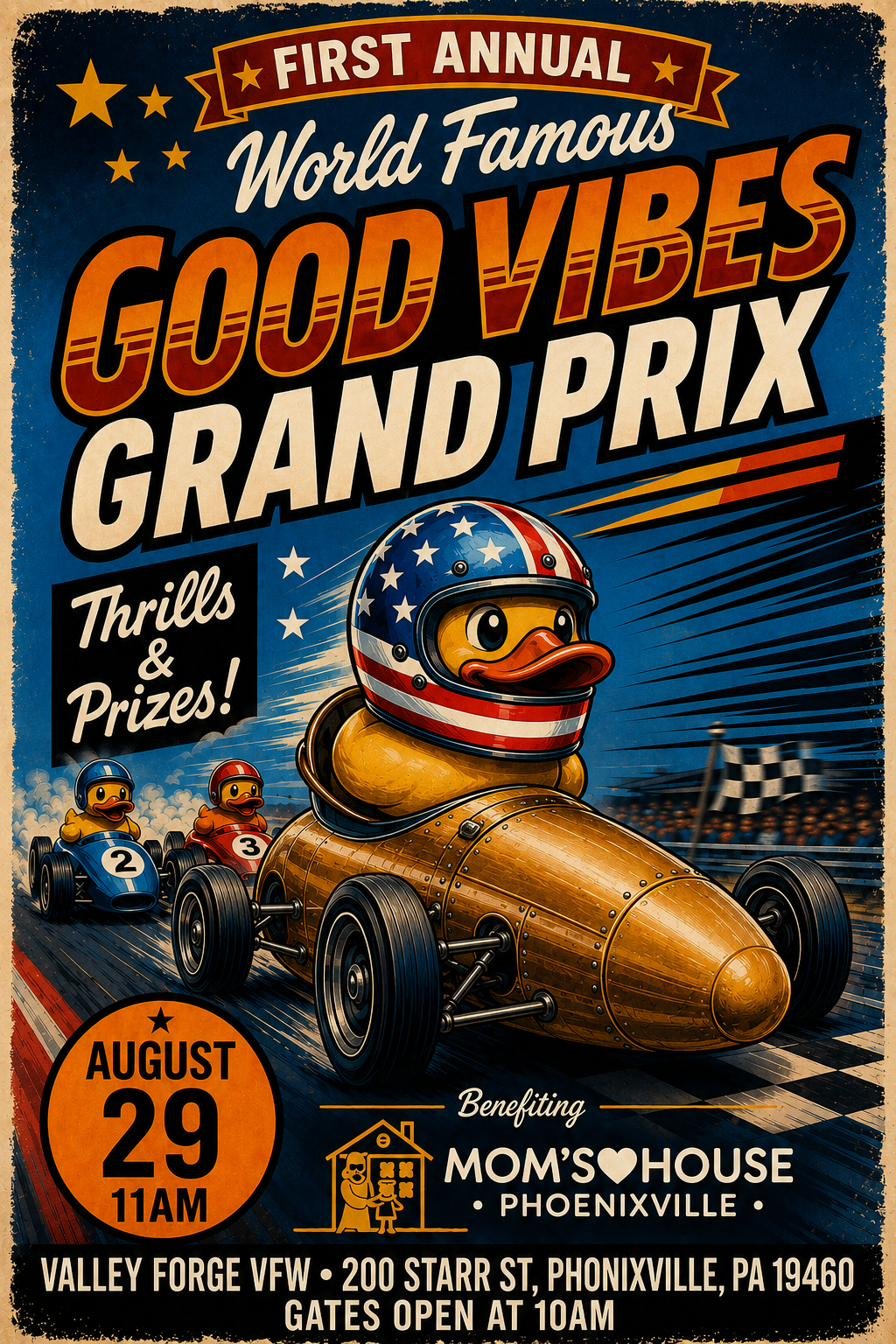
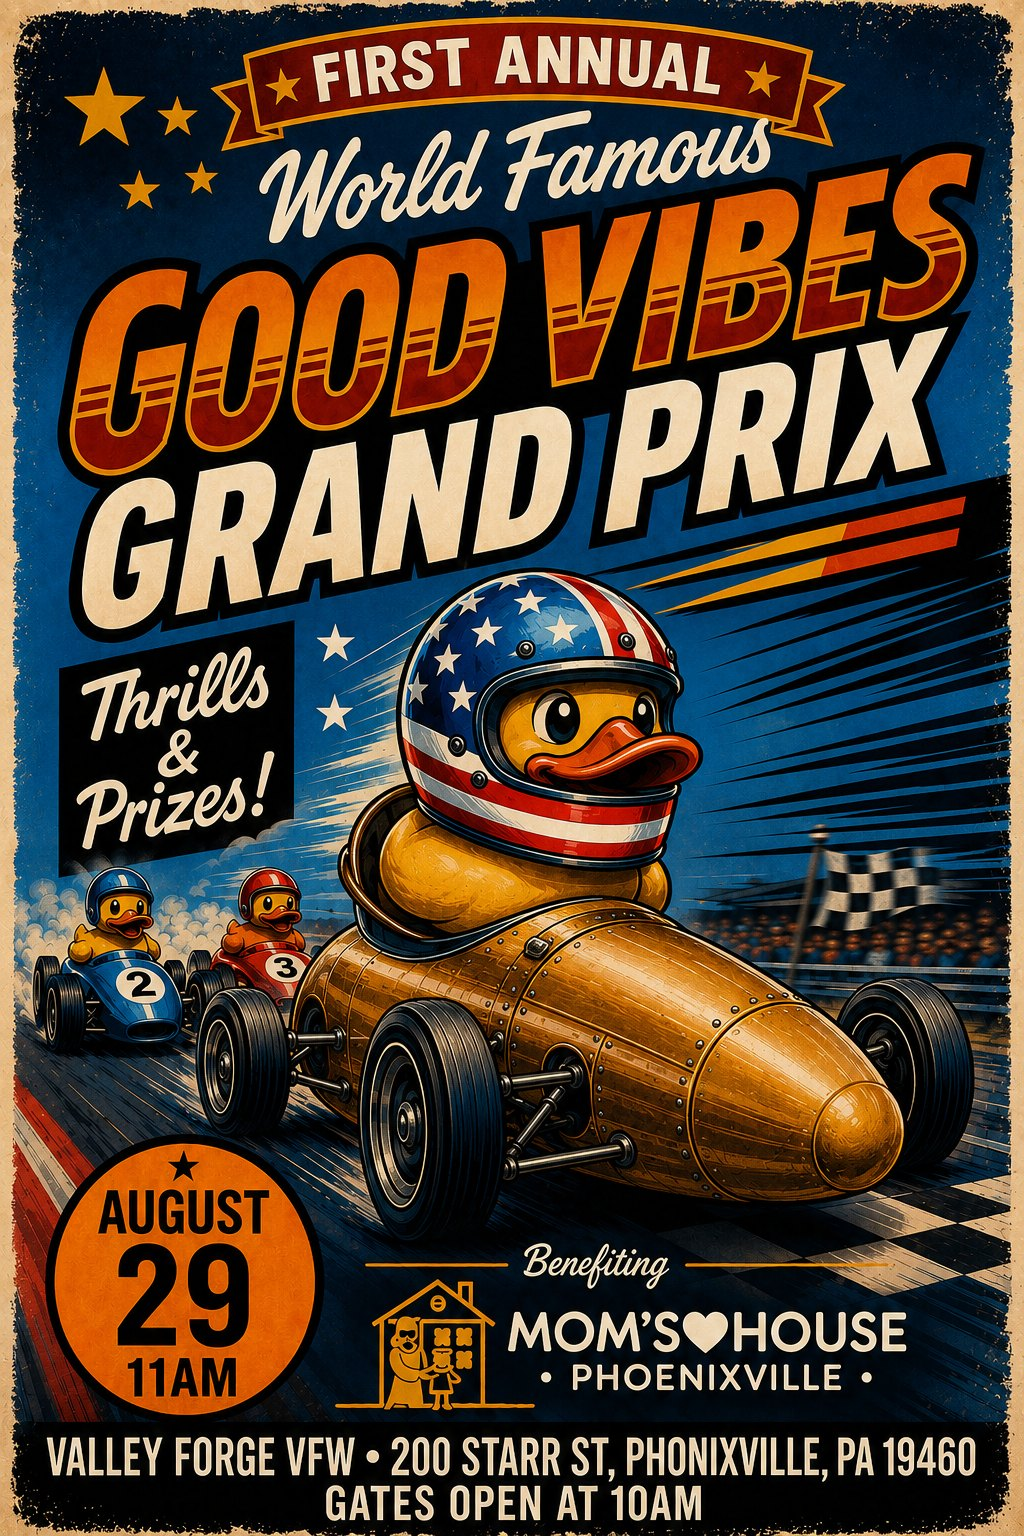
Add files via upload

diff --git a/index.html b/index.html
@@ -15,6 +15,38 @@
 <meta name="twitter:description" content="Aug 29, 2026 · Valley Forge VFW · 21+ · Benefiting Mom's House Phoenixville">
 <meta name="twitter:image" content="https://goodvibesgrandprix.com/assets/poster.jpg">
 <meta name="theme-color" content="#001830">
+<script type="application/ld+json">
+{
+  "@context": "https://schema.org",
+  "@type": "Event",
+  "name": "Good Vibes Grand Prix — First Annual",
+  "description": "VFW Post 1564 presents the World Famous Good Vibes Grand Prix — a cheeky 21+ charity race day at the Valley Forge VFW. Novelty racers, live auctions, thrills & prizes. 100% of net proceeds benefit Mom's House of Phoenixville.",
+  "startDate": "2026-08-29T11:00:00-04:00",
+  "endDate": "2026-08-29T16:00:00-04:00",
+  "doorTime": "2026-08-29T10:00:00-04:00",
+  "eventStatus": "https://schema.org/EventScheduled",
+  "eventAttendanceMode": "https://schema.org/OfflineEventAttendanceMode",
+  "typicalAgeRange": "21-",
+  "image": "https://goodvibesgrandprix.com/assets/poster.jpg",
+  "url": "https://goodvibesgrandprix.com",
+  "location": {
+    "@type": "Place",
+    "name": "Valley Forge VFW Post 1564",
+    "address": {
+      "@type": "PostalAddress",
+      "streetAddress": "200 Starr St",
+      "addressLocality": "Phoenixville",
+      "addressRegion": "PA",
+      "postalCode": "19460",
+      "addressCountry": "US"
+    }
+  },
+  "organizer": {
+    "@type": "Organization",
+    "name": "Valley Forge VFW Post 1564 (Ettinger–Powers–Campbell)"
+  }
+}
+</script>
 <link rel="icon" href="assets/favicon.ico" sizes="any">
 <link rel="icon" type="image/png" sizes="32x32" href="assets/favicon-32.png">
 <link rel="apple-touch-icon" href="assets/favicon-180.png">
@@ -186,6 +218,28 @@ footer{background:rgba(10,10,12,.9);padding:44px 0 30px;border-top:2px solid var
 .legal{max-width:60ch;font-size:.8rem;opacity:.65;line-height:1.7}
 .legal strong{color:var(--gold);opacity:1}
 .foot-bottom{margin-top:26px;padding-top:18px;border-top:1px solid rgba(255,255,255,.08);font-size:.75rem;opacity:.55;text-align:center}
+/* FAQ */
+.faq{max-width:760px;margin-top:8px}
+.faq details{background:rgba(0,0,0,.3);border:1px solid var(--line);border-left:3px solid var(--orange);border-radius:4px;margin-bottom:12px;overflow:hidden}
+.faq summary{cursor:pointer;padding:16px 20px;font-family:'Oswald',sans-serif;font-weight:600;letter-spacing:.5px;text-transform:uppercase;font-size:.95rem;color:var(--cream-2);list-style:none;position:relative;padding-right:44px}
+.faq summary::-webkit-details-marker{display:none}
+.faq summary::after{content:"+";position:absolute;right:18px;top:50%;transform:translateY(-50%);font-family:'Anton',sans-serif;font-size:1.4rem;color:var(--orange-hi);transition:transform .2s}
+.faq details[open] summary::after{transform:translateY(-50%) rotate(45deg)}
+.faq .a{padding:0 20px 18px;opacity:.92}
+.faq .a a{color:var(--orange-hi)}
+/* Meet the Racers teaser */
+.racer-grid{display:grid;grid-template-columns:repeat(4,1fr);gap:16px;margin-top:20px}
+@media(max-width:820px){.racer-grid{grid-template-columns:repeat(2,1fr)}}
+.racer-card{background:rgba(0,0,0,.3);border:1px solid var(--line);border-top:3px solid var(--red);border-radius:6px;padding:22px 14px;text-align:center}
+.racer-card img{height:34px;width:auto;filter:brightness(0) invert(.85) opacity(.35);margin-bottom:12px}
+.racer-card .q{font-family:'Anton',sans-serif;font-size:1.6rem;color:var(--gold);letter-spacing:2px}
+.racer-card .t{font-family:'Oswald',sans-serif;font-size:.7rem;letter-spacing:1.5px;text-transform:uppercase;color:var(--cream);opacity:.7;margin-top:5px}
+/* notify + calendar */
+#notify-btn{display:none}
+#notify-btn.ready{display:inline-block}
+.cal-links{display:flex;gap:12px;justify-content:center;flex-wrap:wrap;margin-top:14px}
+.cal-links a{font-family:'Oswald',sans-serif;font-size:.78rem;letter-spacing:1px;text-transform:uppercase;color:var(--gold);text-decoration:none;border:1px solid var(--line);border-radius:20px;padding:7px 15px;transition:all .2s}
+.cal-links a:hover{background:var(--gold);color:var(--ink);border-color:var(--gold)}
 @media(prefers-reduced-motion:reduce){*{scroll-behavior:auto;animation:none !important;transition:none !important}.reveal{opacity:1;transform:none}}
 a:focus-visible,button:focus-visible{outline:3px solid var(--orange-hi);outline-offset:2px}
 </style>
@@ -203,6 +257,7 @@ a:focus-visible,button:focus-visible{outline:3px solid var(--orange-hi);outline-
       <a href="#how">How It Works</a>
       <a href="#details">Details</a>
       <a href="#sponsors">Sponsors</a>
+      <a href="#faq">FAQ</a>
       <a href="#reserve" class="nav-cta">Reserve</a>
     </nav>
   </div>
@@ -289,6 +344,23 @@ a:focus-visible,button:focus-visible{outline:3px solid var(--orange-hi);outline-
   </div>
 </section>
 <div class="checker" aria-hidden="true"></div>
+
+<!-- MEET THE RACERS (teaser) -->
+<section id="racers">
+  <div class="wrap reveal">
+    <div class="sec-label">The Field</div>
+    <h2 class="sec-title">Meet The Racers</h2>
+    <p class="lede">Twenty-four racers. Six heats. Zero dignity. Every racer runs under a race name you will not forget — and the full field stays under wraps until closer to the green flag.</p>
+    <div class="racer-grid">
+      <div class="racer-card"><img src="assets/racer.png" alt=""><div class="q">???</div><div class="t">Heat 1 · Revealed Soon</div></div>
+      <div class="racer-card"><img src="assets/racer.png" alt=""><div class="q">???</div><div class="t">Heat 2 · Revealed Soon</div></div>
+      <div class="racer-card"><img src="assets/racer.png" alt=""><div class="q">???</div><div class="t">Heat 3 · Revealed Soon</div></div>
+      <div class="racer-card"><img src="assets/racer.png" alt=""><div class="q">???</div><div class="t">The Finale · Slowest Wins</div></div>
+    </div>
+  </div>
+</section>
+
+<div class="checker" aria-hidden="true"></div>
 <section id="details">
   <div class="wrap reveal">
     <div class="sec-label">The Fine Print</div>
@@ -300,6 +372,10 @@ a:focus-visible,button:focus-visible{outline:3px solid var(--orange-hi);outline-
         <p>Gates open <strong>10:00 AM</strong></p>
         <p>Races start <strong>11:00 AM</strong></p>
         <p style="margin-top:14px"><span class="pill">21+ · ID Required</span></p>
+        <div class="cal-links" style="justify-content:flex-start">
+          <a href="good-vibes-grand-prix.ics" download>📅 Apple / Outlook</a>
+          <a href="https://calendar.google.com/calendar/render?action=TEMPLATE&text=Good+Vibes+Grand+Prix&dates=20260829T140000Z/20260829T200000Z&details=First+Annual+Good+Vibes+Grand+Prix+%E2%80%94+charity+race+day+at+the+Valley+Forge+VFW.+21%2B.+Benefiting+Mom%27s+House+Phoenixville.+goodvibesgrandprix.com&location=Valley+Forge+VFW%2C+200+Starr+St%2C+Phoenixville%2C+PA+19460" target="_blank" rel="noopener">📅 Google Calendar</a>
+        </div>
       </div>
       <div class="card">
         <h3>Where</h3>
@@ -327,6 +403,50 @@ a:focus-visible,button:focus-visible{outline:3px solid var(--orange-hi);outline-
   </div>
 </section>
 <div class="checker" aria-hidden="true"></div>
+
+<!-- FAQ -->
+<section id="faq">
+  <div class="wrap reveal">
+    <div class="sec-label">Pit Wall Questions</div>
+    <h2 class="sec-title">FAQ</h2>
+    <div class="faq">
+      <details>
+        <summary>Wait — is this real?</summary>
+        <div class="a">Extremely. It's a proven charity format made famous in Key West, where it sells out months in advance. Ours is the first annual Pennsylvania edition, run by VFW Post 1564 with 100% of net proceeds going to <a href="moms-house.html">Mom's House of Phoenixville</a>.</div>
+      </details>
+      <details>
+        <summary>What exactly is racing?</summary>
+        <div class="a">Let's call them self-propelled novelty racers and leave the rest to your imagination — which is exactly where it belongs. It's cheeky, it's ridiculous, and it's all for the kids and parents at Mom's House. The innuendo stays on the track; the event itself is all laughs.</div>
+      </details>
+      <details>
+        <summary>Why 21+?</summary>
+        <div class="a">It's an adult-humor event held in a licensed club with cash gaming. No exceptions, and photo ID gets checked at the door — yes, even if you have gray hair and grandkids.</div>
+      </details>
+      <details>
+        <summary>How do tickets work?</summary>
+        <div class="a">Advance tickets guarantee your seat, and seating is limited. Ticketing details drop soon — right here on this site. Grab the date on your calendar from the <a href="#details">Details</a> section so you don't miss the drop.</div>
+      </details>
+      <details>
+        <summary>Do I have to bid?</summary>
+        <div class="a">Nobody's forcing you — but this is not a spectator sport. Bidding starts at just $10, backing a racer is the whole fun, and every dollar drives to Mom's House. Bring cash; you'll want it when the bidding war starts.</div>
+      </details>
+      <details>
+        <summary>Can I bring my own racer?</summary>
+        <div class="a">Absolutely not, and we can't believe you asked. All racers are provided, inspected, and named by the house — a level playing field is sacred in motorsport.</div>
+      </details>
+      <details>
+        <summary>Where does the money actually go?</summary>
+        <div class="a">100% of net proceeds go to <a href="moms-house.html">Mom's House of Phoenixville</a> — free, state-licensed childcare so single parents can finish school. They receive zero government funding. Your bids literally keep the lights on.</div>
+      </details>
+      <details>
+        <summary>Food? Drinks? Parking?</summary>
+        <div class="a">It's a VFW post — you will not go hungry or thirsty. Full details on food, drink, and parking will be posted along with ticketing info.</div>
+      </details>
+    </div>
+  </div>
+</section>
+
+<div class="checker" aria-hidden="true"></div>
 <section id="reserve">
   <div class="wrap reveal">
     <div class="sec-label">Get In The Grandstand</div>
@@ -335,9 +455,13 @@ a:focus-visible,button:focus-visible{outline:3px solid var(--orange-hi);outline-
     <div class="soon-box">
       <img src="assets/logo.png" alt="" aria-hidden="true" style="width:150px;height:auto;display:block;margin:0 auto 18px;filter:drop-shadow(0 8px 16px rgba(0,0,0,.5))">
       <span class="pill">Tickets Coming Soon</span>
-      <p>We're finalizing ticketing now. Check back shortly — or follow VFW Post 1564 for the drop.</p>
-      <p style="opacity:.7;font-size:.9rem">Sponsors &amp; seat reservations: your ticketing link lands right here.</p>
-      <a class="btn btn-disabled" aria-disabled="true" tabindex="-1">Tickets Coming Soon</a>
+      <p>We're finalizing ticketing now. Be first in line when they drop:</p>
+      <a id="notify-btn" class="btn btn-primary" href="#" target="_blank" rel="noopener">🔔 Notify Me When Tickets Drop</a>
+      <p style="opacity:.7;font-size:.9rem;margin-top:14px">Or lock in the date right now:</p>
+      <div class="cal-links">
+        <a href="good-vibes-grand-prix.ics" download>📅 Apple / Outlook</a>
+        <a href="https://calendar.google.com/calendar/render?action=TEMPLATE&text=Good+Vibes+Grand+Prix&dates=20260829T140000Z/20260829T200000Z&details=First+Annual+Good+Vibes+Grand+Prix+%E2%80%94+charity+race+day+at+the+Valley+Forge+VFW.+21%2B.+Benefiting+Mom%27s+House+Phoenixville.+goodvibesgrandprix.com&location=Valley+Forge+VFW%2C+200+Starr+St%2C+Phoenixville%2C+PA+19460" target="_blank" rel="noopener">📅 Google Calendar</a>
+      </div>
     </div>
   </div>
 </section>
@@ -361,6 +485,11 @@ a:focus-visible,button:focus-visible{outline:3px solid var(--orange-hi);outline-
 <div id="race-track" aria-hidden="true"></div>
 <div id="race-car" aria-hidden="true"><img src="assets/racer.png" alt=""></div>
 <script>
+// ==== CONFIG: paste your Tally form link between the quotes to activate the notify button ====
+const TALLY_URL = "";
+// =============================================================================================
+const nb=document.getElementById('notify-btn');
+if(TALLY_URL){nb.href=TALLY_URL;nb.classList.add('ready');}
 const target=new Date('2026-08-29T11:00:00-04:00').getTime();
 const dEl=document.getElementById('cd-d'),hEl=document.getElementById('cd-h'),mEl=document.getElementById('cd-m'),sEl=document.getElementById('cd-s'),note=document.getElementById('cd-note');
 function pad(n){return String(n).padStart(2,'0')}